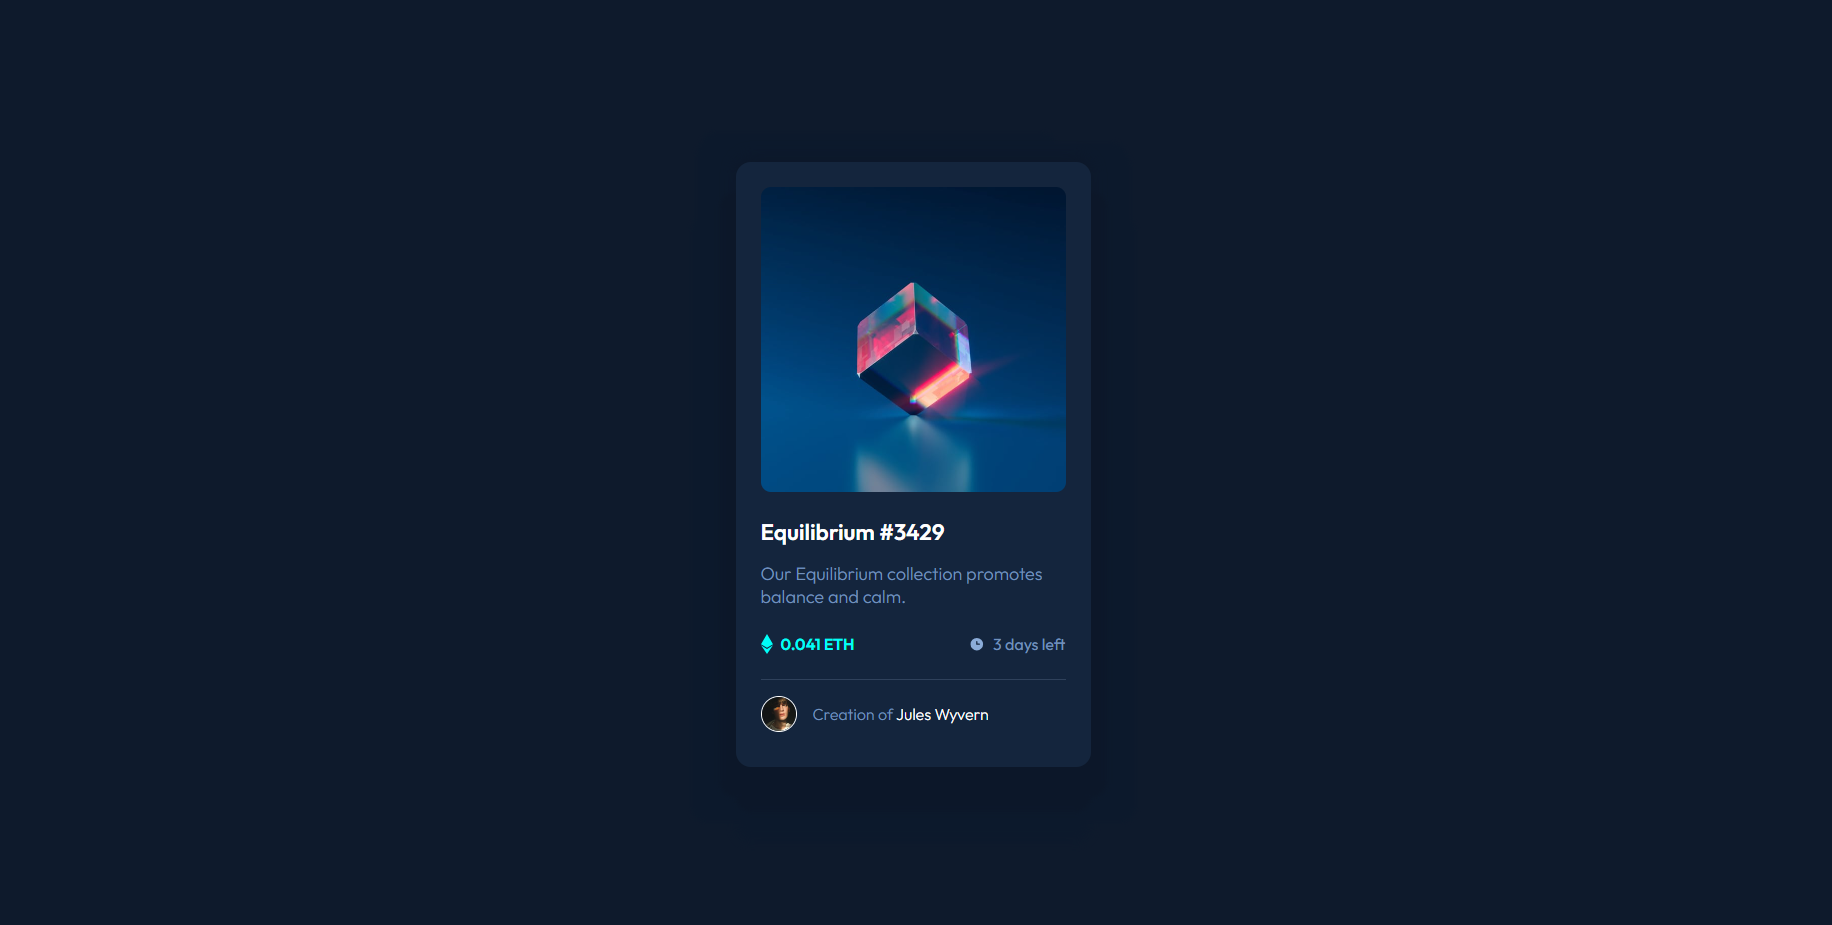
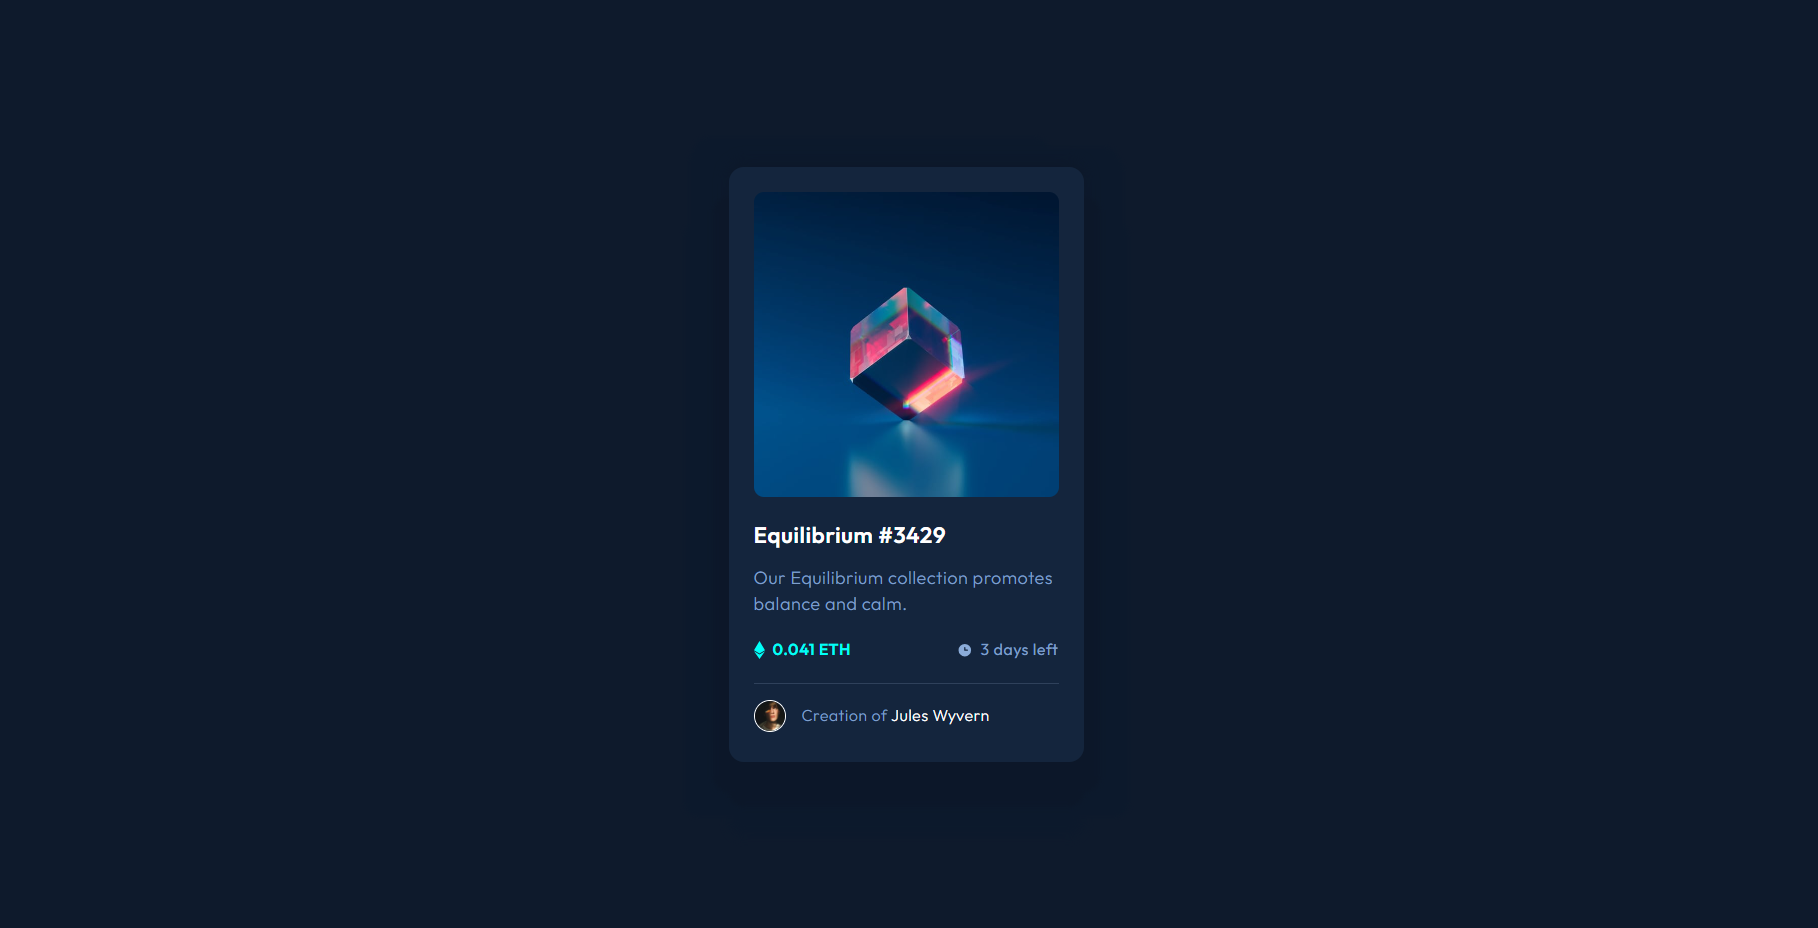
Fix visual issues

diff --git a/nft-preview-card-component-main/index.css b/nft-preview-card-component-main/index.css
@@ -18,11 +18,13 @@ body {
     display: grid;
     place-items: center;
     background: hsla(217, 54%, 11%, 0.994);
-    color: hsla(215, 51%, 70%, 0.8);
+    color: hsla(215, 51%, 70%, 0.9);
     font-size: 18px;
     font-family: 'Outfit';
     font-weight: 300;
     height: 100vh;
+    line-height: 1.6rem;
+    letter-spacing: 0.5px;
 }
 
 .card {
@@ -72,8 +74,8 @@ body {
     display: flex;
     justify-content: space-between;
     align-items: center;
-    padding-bottom: 25px;
-    padding-top: 10px;
+    padding-bottom: 20px;
+    padding-top: 5px;
     border-bottom: 1px solid var(--very-dark-blue-line);
 }
 
@@ -93,23 +95,24 @@ body {
 .eth {
     color: var(--cyan);
     font-weight: 700;
+    font-size: 1rem;
 }
 
 .eth > img {
-    width: 12px;
+    width: 11px;
 }
 
 .creator {
     display: flex;
     justify-content: start;
     align-items: center;
-    padding-bottom: 10px;
+    padding-bottom: 5px;
     font-size: 1rem;
     gap: 1rem;
 }
 
 .creator img {
-    width: 36px;
+    width: 32px;
     border: 1px solid var(--white);
     border-radius: 50%;
 }
